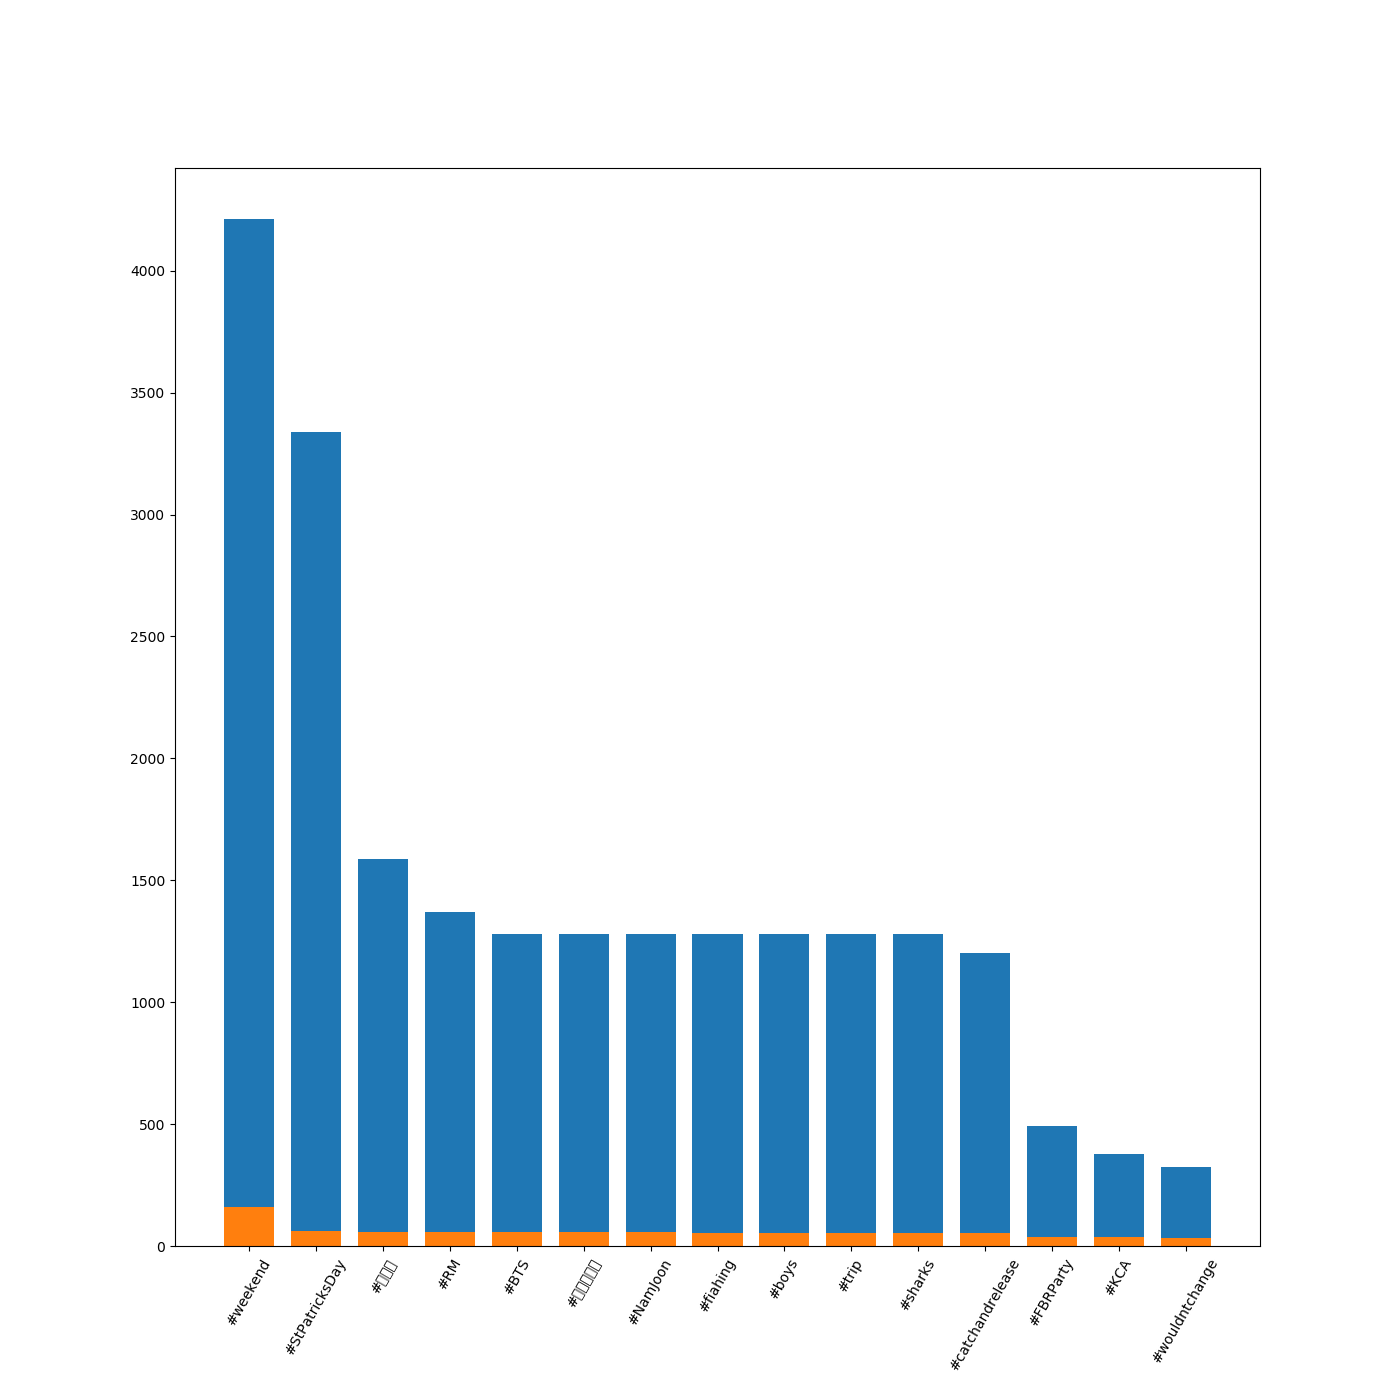
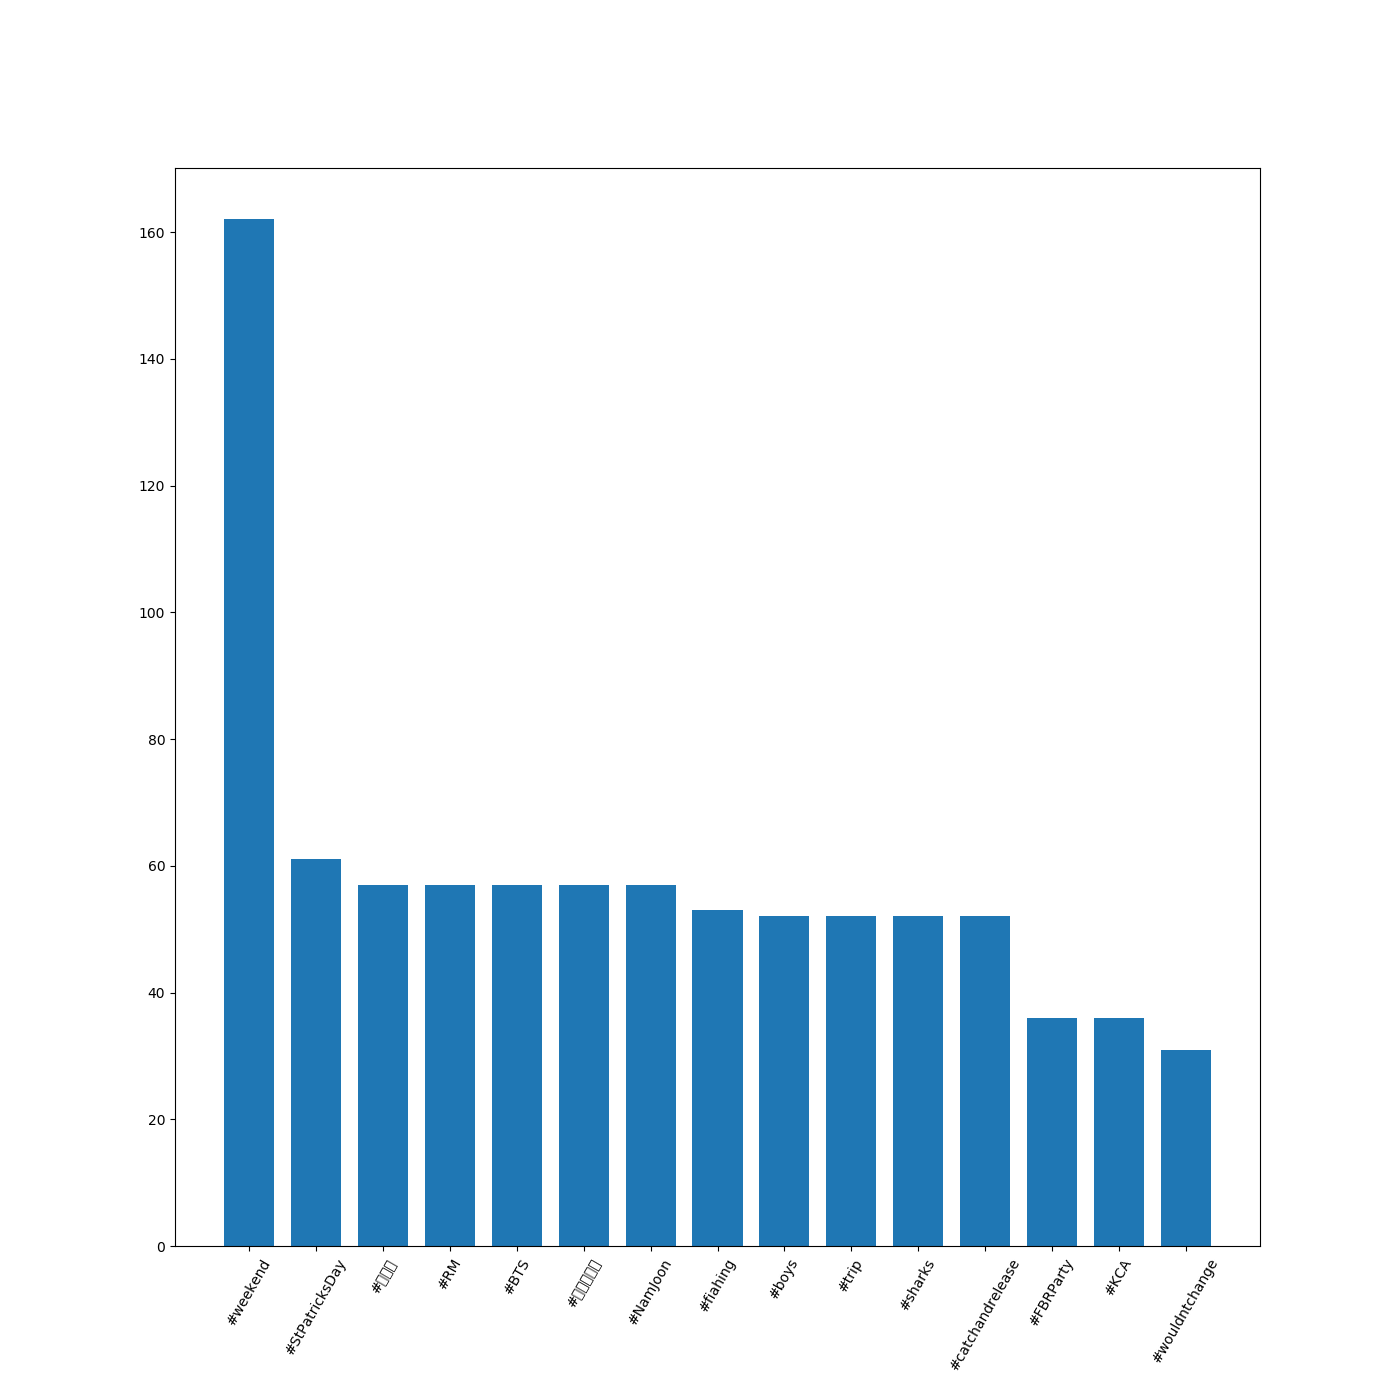
Update Generate Plot Function

diff --git a/Lab3/StudentProposal.py b/Lab3/StudentProposal.py
@@ -83,47 +83,32 @@ with open(fname, 'r') as f:
         terms_men = [term for term in preprocess(tweet['text']) if term.startswith('@') and term not in stop]
         count_men.update(terms_men)
 
+
+
+def generatePlot(count,plotName):
+
+    print(count.most_common(15))
+    sorted_x, sorted_y = zip(*count.most_common(15))
+    print(sorted_x, sorted_y)
+
+    plt.bar(range(len(sorted_x)), sorted_y, width=0.75, align='center')
+    plt.xticks(range(len(sorted_x)), sorted_x, rotation=60)
+    plt.axis('tight')
+    plt.show()                  # show it on IDE
+    plt.savefig(plotName)  # save it on a file
+    plt.gcf().clear()           #forget the previous char
+
+
+
+
 # Print and generate the plot for the first 15 most frequent tokens
-print(count_all.most_common(15))
-sorted_x, sorted_y = zip(*count_all.most_common(15))
-print(sorted_x, sorted_y)
-
-plt.bar(range(len(sorted_x)), sorted_y, width=0.75, align='center')
-plt.xticks(range(len(sorted_x)), sorted_x, rotation=60)
-plt.axis('tight')
-plt.show()                  # show it on IDE
-plt.savefig('StudentProposal_Tokens.png')     # save it on a file
-
+generatePlot(count_all, 'StudentProposal_Tokens.png')
 
 # Print and generate the plot for the first 15 most frequent hashtags
-print(count_hashtag.most_common(15))
-sorted_h1, sorted_h2 = zip(*count_hashtag.most_common(15))
-print(sorted_h1, sorted_h2)
+generatePlot(count_hashtag, 'StudentProposal_Hashtags.png')
 
-plt.bar(range(len(sorted_h1)), sorted_h2, width=0.75, align='center')
-plt.xticks(range(len(sorted_h1)), sorted_h1, rotation=60)
-plt.axis('tight')
-plt.show()                  # show it on IDE
-plt.savefig('StudentProposal_Hashtags.png')     # save it on a file
-
-# Print and generate the plot for the first 15 most frequent terms skipping hashtags and mentions
-print(count_only.most_common(15))
-sorted_o1, sorted_o2 = zip(*count_only.most_common(15))
-print(sorted_o1, sorted_o2)
-
-plt.bar(range(len(sorted_o1)), sorted_o2, width=0.75, align='center')
-plt.xticks(range(len(sorted_o1)), sorted_o1, rotation=60)
-plt.axis('tight')
-plt.show()                  # show it on IDE
-plt.savefig('StudentProposal_NoHashNoMentions.png')     # save it on a file
+# Print and generate the plot for the first 15 most frequent tokens skipping hashtags and mentions
+generatePlot(count_only, 'StudentProposal_NoHashtagsMentions.png')
 
 # Print and generate the plot for the first 15 most frequent mentions
-print(count_men.most_common(15))
-sorted_m1, sorted_m2 = zip(*count_men.most_common(15))
-print(sorted_m1, sorted_m2)
-
-plt.bar(range(len(sorted_m1)), sorted_m2, width=0.75, align='center')
-plt.xticks(range(len(sorted_m1)), sorted_m1, rotation=60)
-plt.axis('tight')
-plt.show()                  # show it on IDE
-plt.savefig('StudentProposal_Mentions.png')     # save it on a file
+generatePlot(count_men, 'StudentProposal_Mentions.png')
